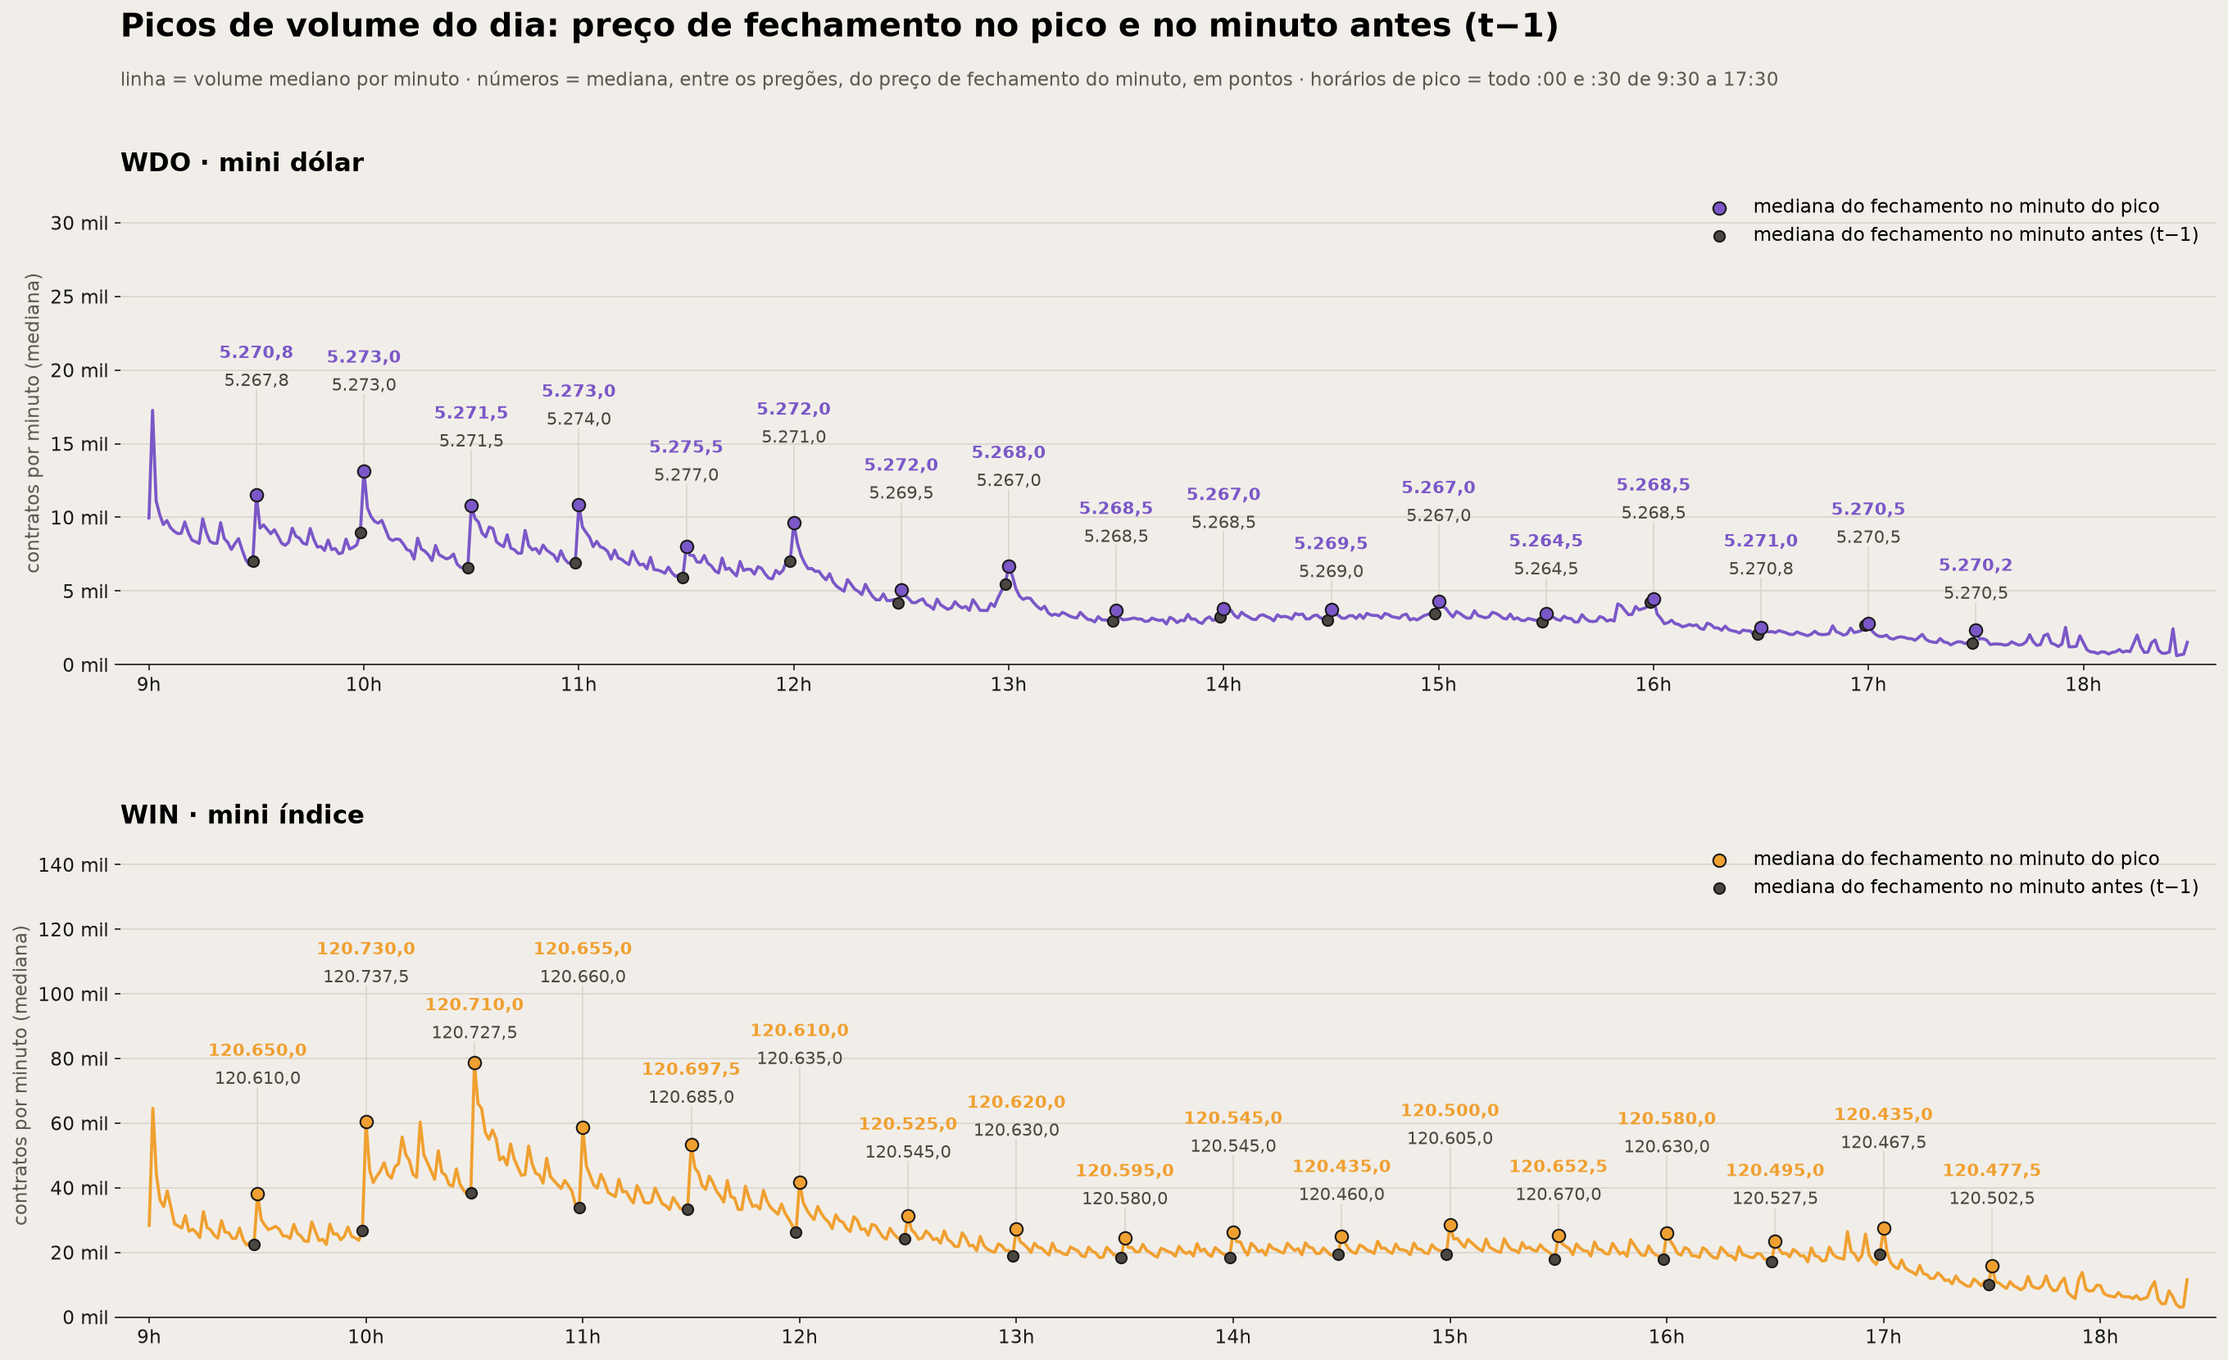
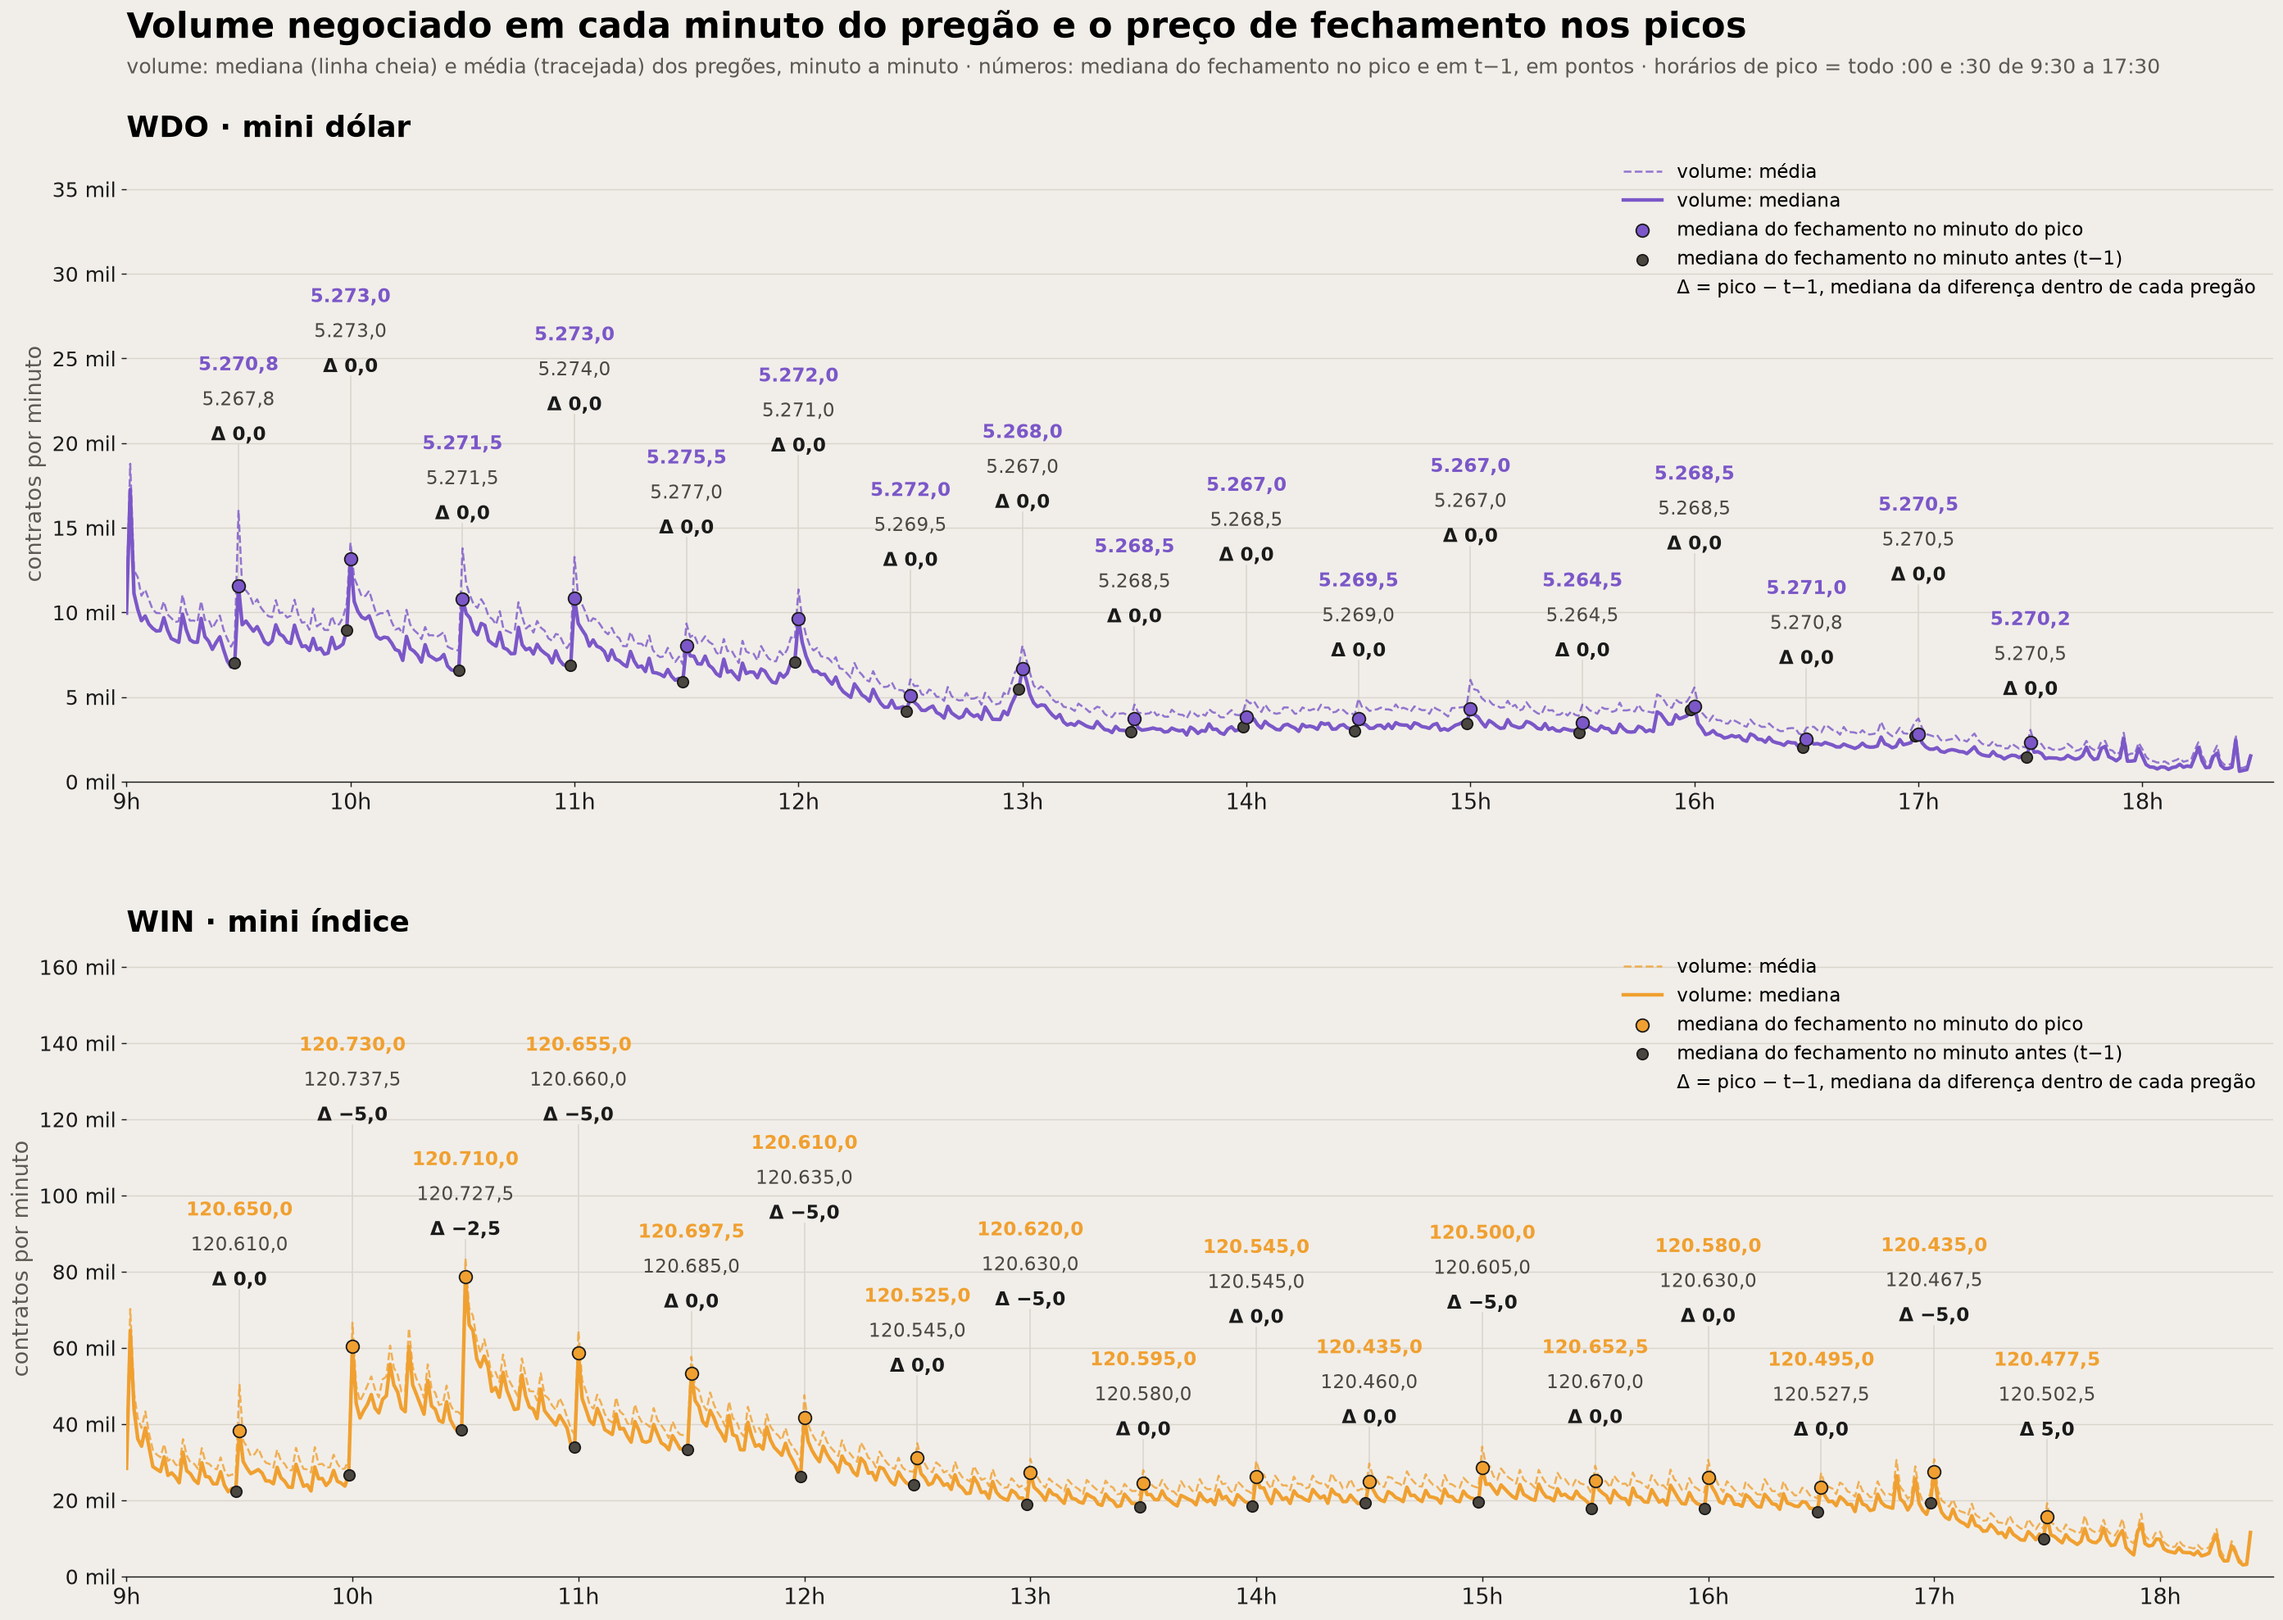
feat(bigplayer): parte 2, picos do dia no estilo do gráfico de volume, com a diferença pico − t-1

diff --git a/bigplayer/pt2/03_minuto_antes_volume.py b/bigplayer/pt2/03_minuto_antes_volume.py
@@ -437,46 +437,58 @@ fig.savefig(FIGURES / "picos_manha.png", dpi=150, bbox_inches="tight")
 plt.show()
 
 # %% [markdown]
-# ## 10. Dia inteiro: mediana do FECHAMENTO no pico e no minuto antes (t−1)
-# Todos os :00 e :30 de 9:30 a 17:30. Preço = fechamento do minuto (não o preço médio), mediana entre os pregões
-# que têm os dois minutos.
+# ## 10. Dia inteiro: mediana do FECHAMENTO no pico e no minuto antes (t−1), e a diferença
+# Todos os :00 e :30 de 9:30 a 17:30. Preço = fechamento do minuto (não o preço médio).
+# - pico e t−1: mediana do fechamento entre os pregões que têm os dois minutos;
+# - Δ: mediana, entre os pregões, de (fechamento no pico − fechamento em t−1) dentro de cada pregão.
 
 # %%
 ALL_PEAKS = [time(h, m) for h in range(9, 18) for m in (0, 30)][1:]
-fig, axes = plt.subplots(2, 1, figsize=(22, 12), gridspec_kw={"hspace": 0.35})
+fig, axes = plt.subplots(2, 1, figsize=(26, 17), gridspec_kw={"hspace": 0.25})
+before_color = "#4A4640"
 for ax, (asset, name) in zip(axes, ASSETS.items()):
     b = bars[asset]
     close = b.pivot(index="session_date", columns="minuto", values="close")
-    med = b.groupby("minuto")["vol"].median()
+    g = b.groupby("minuto")["vol"]
+    med, mean = g.median(), g.mean()
     xs = [minutes_since_nine(t) for t in med.index]
-    ax.plot(xs, med.values, color=COLOR[asset], lw=1.8)
-    top = med.max()
-    before_color = "#4A4640"
+    ax.plot(xs, mean.values, color=COLOR[asset], lw=1.4, ls="--", alpha=0.8, label="volume: média")
+    ax.plot(xs, med.values, color=COLOR[asset], lw=2.4, label="volume: mediana")
+    top = mean.max()
+    decimals = 1
     for i, t in enumerate(ALL_PEAKS):
         before = (datetime.combine(date(2000, 1, 1), t) - timedelta(minutes=1)).time()
         d = pd.DataFrame({"x": close[t], "y": close[before]}).dropna()
+        diff = (d["x"] - d["y"]).median()
         xp = minutes_since_nine(t)
-        ax.scatter([xp - 1], [med[before]], s=40, color=before_color, edgecolor=INK, zorder=4)
-        ax.scatter([xp], [med[t]], s=55, color=COLOR[asset], edgecolor=INK, zorder=4)
-        nearby = med[[m for m in med.index if abs(minutes_since_nine(m) - xp) <= 30]].max()
-        base = nearby + top * (0.08 if i % 2 == 0 else 0.30)
-        ax.text(xp, base + top * 0.11, br_level(d["x"].median()), ha="center", va="bottom",
-                fontsize=10, fontweight="bold", color=COLOR[asset])
-        ax.text(xp, base, br_level(d["y"].median()), ha="center", va="bottom", fontsize=10, color=before_color)
-        ax.plot([xp, xp], [med[t], base], color=GRID, lw=0.8, zorder=1)
-    ax.scatter([], [], s=55, color=COLOR[asset], edgecolor=INK, label="mediana do fechamento no minuto do pico")
-    ax.scatter([], [], s=40, color=before_color, edgecolor=INK, label="mediana do fechamento no minuto antes (t−1)")
-    ax.legend(frameon=False, loc="upper right", fontsize=11)
+        ax.scatter([xp - 1], [med[before]], s=55, color=before_color, edgecolor=INK, zorder=4)
+        ax.scatter([xp], [med[t]], s=75, color=COLOR[asset], edgecolor=INK, zorder=4)
+        nearby = mean[[m for m in mean.index if abs(minutes_since_nine(m) - xp) <= 30]].max()
+        base = nearby + top * (0.06 if i % 2 == 0 else 0.42)
+        ax.plot([xp, xp], [med[t], base], color=GRID, lw=0.9, zorder=1)
+        ax.text(xp, base, f"Δ {br(diff, decimals)}", ha="center", va="bottom", fontsize=12.5,
+                fontweight="bold", color=INK)
+        ax.text(xp, base + top * 0.11, br_level(d["y"].median()), ha="center", va="bottom", fontsize=12.5,
+                color=before_color)
+        ax.text(xp, base + top * 0.22, br_level(d["x"].median()), ha="center", va="bottom", fontsize=12.5,
+                fontweight="bold", color=COLOR[asset])
+    ax.scatter([], [], s=75, color=COLOR[asset], edgecolor=INK, label="mediana do fechamento no minuto do pico")
+    ax.scatter([], [], s=55, color=before_color, edgecolor=INK, label="mediana do fechamento no minuto antes (t−1)")
+    ax.plot([], [], " ", label="Δ = pico − t−1, mediana da diferença dentro de cada pregão")
+    ax.legend(frameon=False, loc="upper right", fontsize=13)
     hours = range(9, 19)
-    ax.set_xticks([(h - 9) * 60 for h in hours], [f"{h}h" for h in hours])
-    ax.set_xlim(-8, max(xs) + 8)
-    ax.set_ylim(0, top * 1.9)
+    ax.set_xticks([(h - 9) * 60 for h in hours], [f"{h}h" for h in hours], fontsize=15)
+    ax.tick_params(axis="y", labelsize=14)
+    ax.set_xlim(0, max(xs) + 6)
+    ax.set_ylim(0, top * 2.0)
     ax.yaxis.set_major_formatter(mil_axis)
-    ax.set_ylabel("contratos por minuto (mediana)")
-    ax.set_title(f"{asset} · {name}", loc="left", fontsize=15, fontweight="bold")
-fig.suptitle("Picos de volume do dia: preço de fechamento no pico e no minuto antes (t−1)", x=0.125, y=0.995,
-             ha="left", fontsize=19, fontweight="bold")
-fig.text(0.125, 0.945, "linha = volume mediano por minuto · números = mediana, entre os pregões, do preço de fechamento "
-         "do minuto, em pontos · horários de pico = todo :00 e :30 de 9:30 a 17:30", fontsize=11, color=INK_2)
-fig.savefig(FIGURES / "picos_dia_fechamento.png", dpi=150, bbox_inches="tight")
+    ax.set_ylabel("contratos por minuto", fontsize=15)
+    ax.set_title(f"{asset} · {name}", loc="left", fontsize=20, fontweight="bold")
+fig.subplots_adjust(top=0.9)
+fig.suptitle("Volume negociado em cada minuto do pregão e o preço de fechamento nos picos", x=0.125, y=0.975,
+             ha="left", fontsize=24, fontweight="bold")
+fig.text(0.125, 0.94, "volume: mediana (linha cheia) e média (tracejada) dos pregões, minuto a minuto · números: "
+         "mediana do fechamento no pico e em t−1, em pontos · horários de pico = todo :00 e :30 de 9:30 a 17:30",
+         fontsize=14, color=INK_2)
+fig.savefig(FIGURES / "picos_dia_fechamento.png", dpi=130, bbox_inches="tight")
 plt.show()
